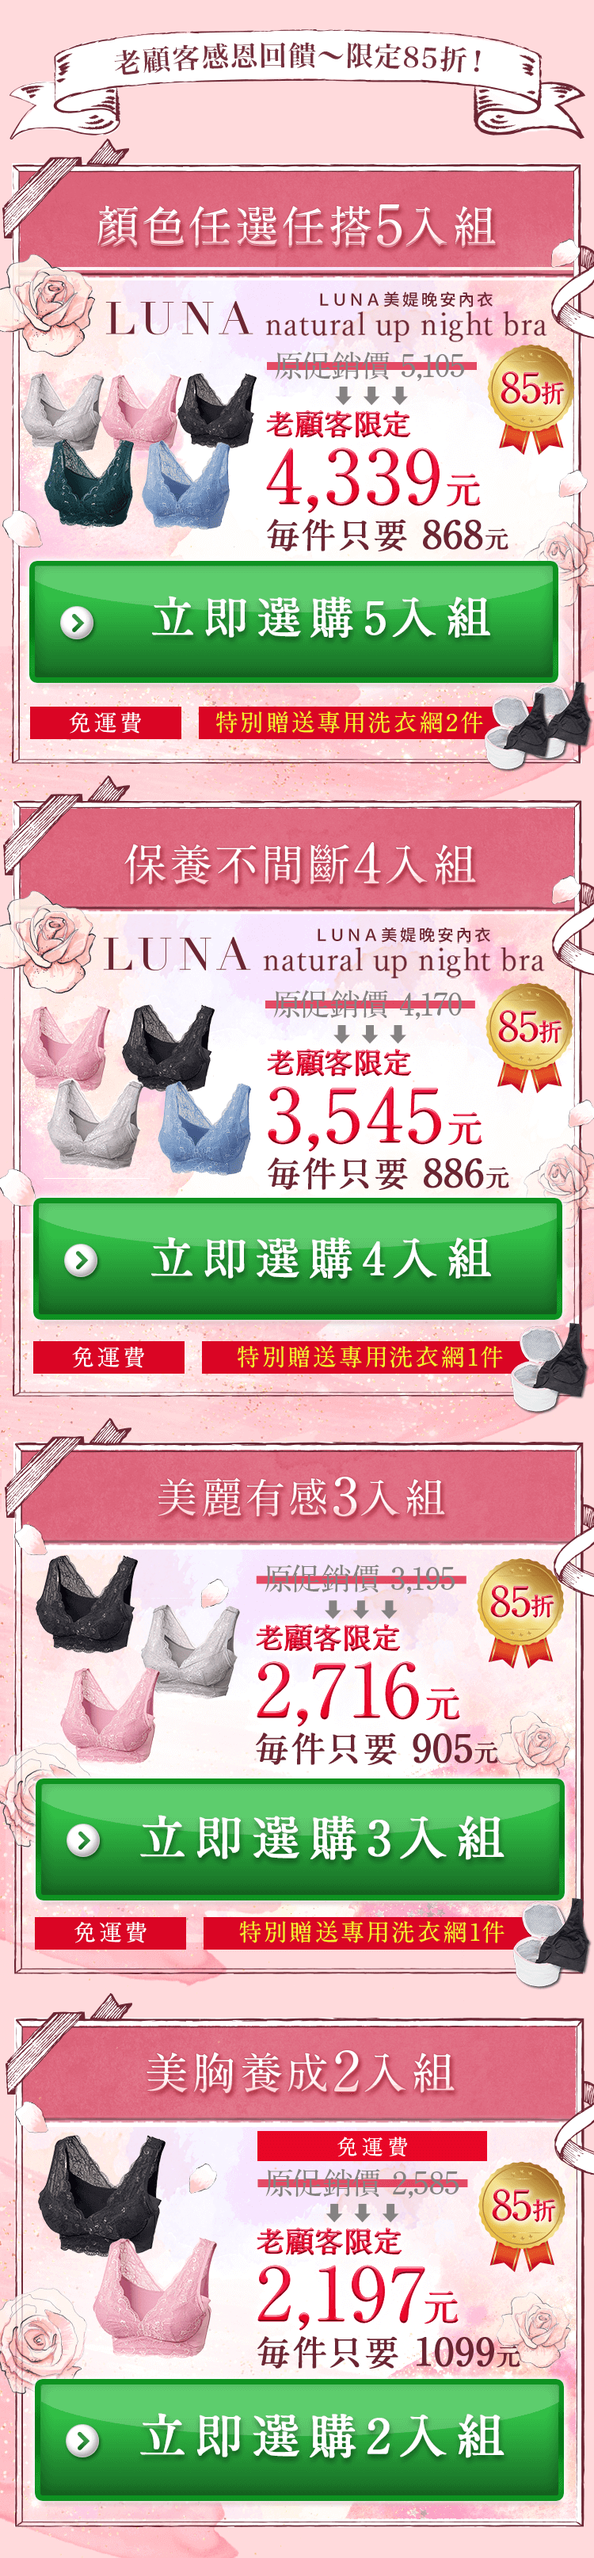
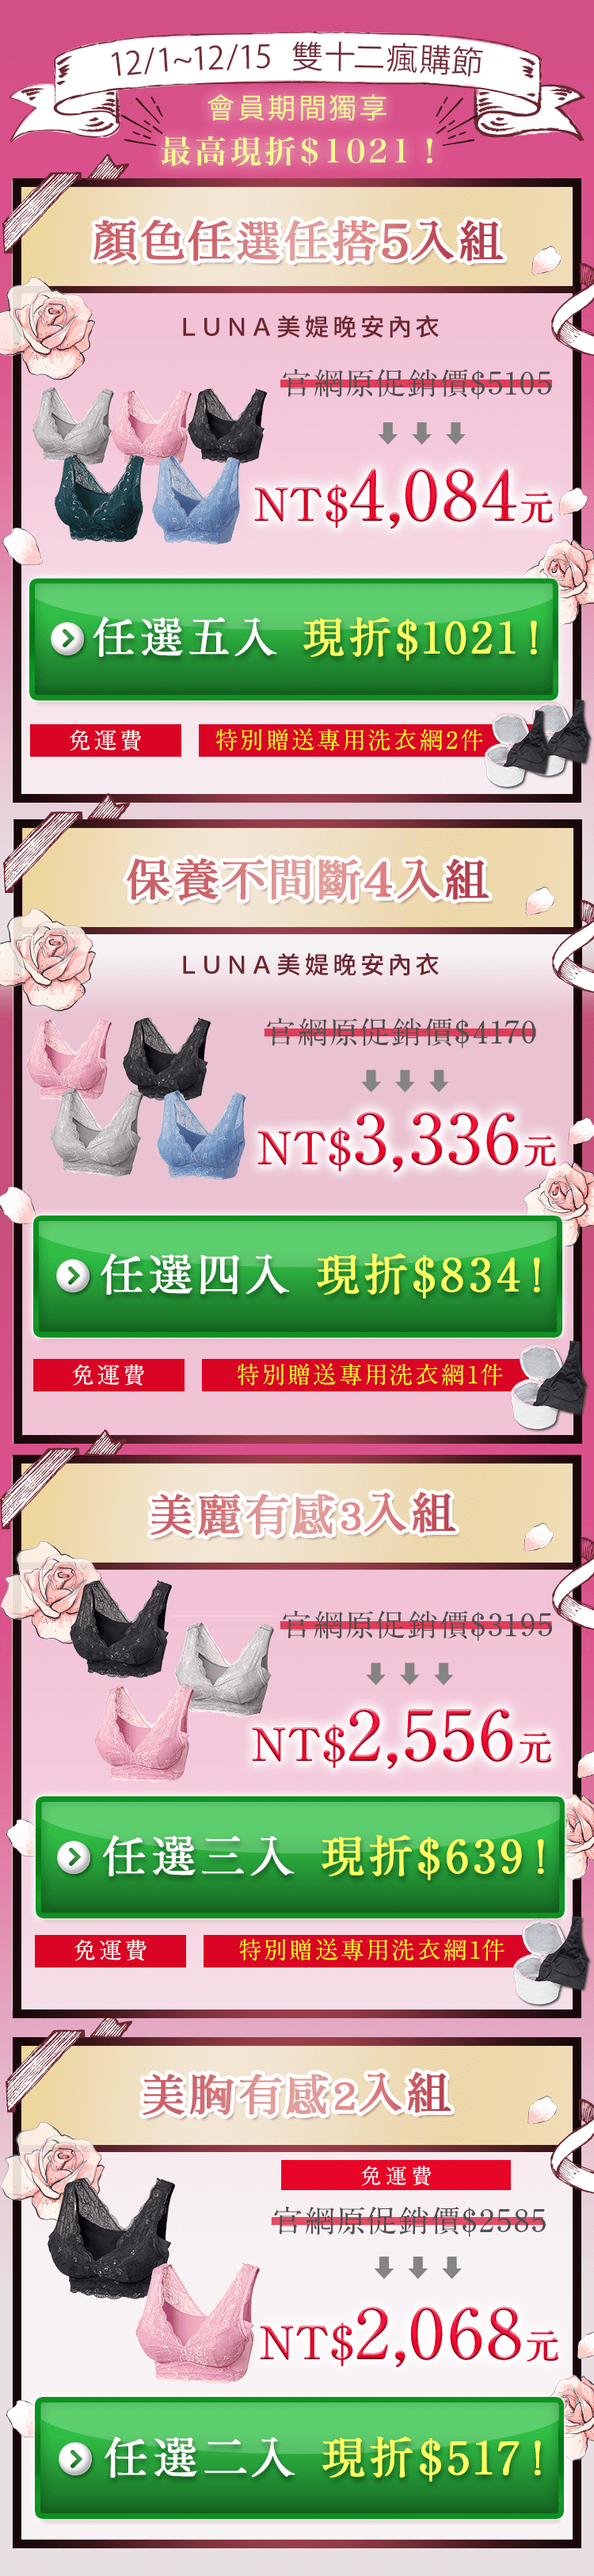
20211201_luna 1212

diff --git a/index.html b/index.html
@@ -2,7 +2,7 @@
 <html>
 
 <head>
-    <title>Viage雙12瘋購節！會員獨享現金回饋💸挑戰全年最低價！渾圓美胸輕鬆get</title>
+    <title>LUNA雙12瘋購節！會員獨享現金回饋💸挑戰全年最低價！渾圓美胸輕鬆get</title>
     <meta name="Description"
         content="日本專利設計小胸福星，輕鬆打造美胸ω歐美伽曲線，美胸不再是大CUP的專利！穿著錯誤尺寸的內衣或是受地心引力影響都會使ω歐美伽曲線變形。只是穿著Luna 晚安內衣改善了ω歐美伽曲線的長度，視覺上的效果就完全不一樣！？鈴木奈奈穿著3個月後成功讓A罩杯看起來有C罩杯！">
     <meta name="keywords" content="luna,luna內衣,晚安內衣,美媞內衣,夜晚美胸,Luna美媞晚安內衣,小胸內衣,睡覺 內衣,睡眠 內衣">
@@ -105,13 +105,13 @@
                 <section class="main">
                     <!-- main pc -->
                     <div class="fv">
-                        <img src="images/01_banner.jpg" alt="">
+                        <img src="images/01_banner.png" alt="">
                         <img src="images/02_fv.png" alt="">
                         <img src="images/03_sales.png" alt="">
-                        <img src="images/04_set05.jpg" alt="">
+                        <img src="images/04_set05.png" alt="">
                         <img src="images/05_data.png" alt="">
                         <a href="#buy">
-                            <img src="images/07_offer.jpg" alt="">
+                            <img src="images/07_offer.png" alt="">
                         </a>
                     </div>
 
